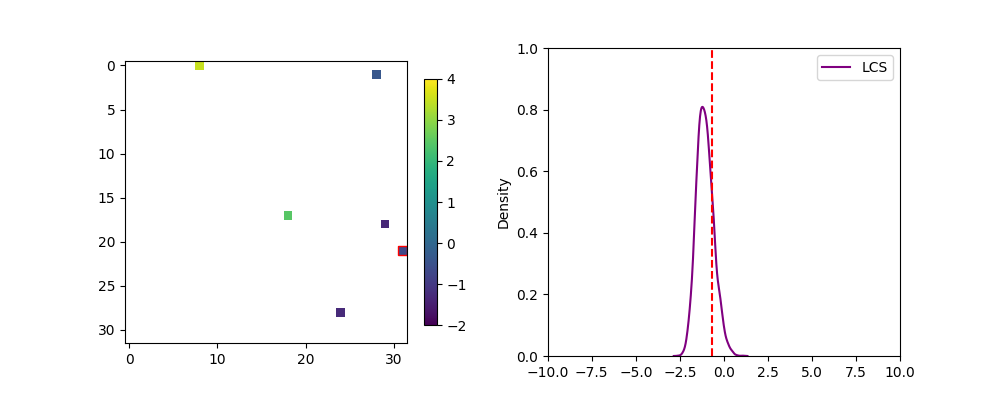
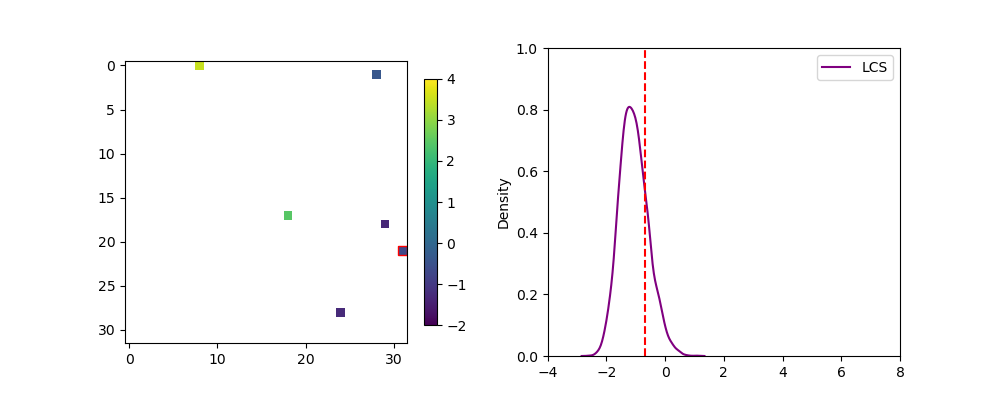
merge with local

diff --git a/brown_resnick/sde_diffusion/masked/unparameterized_masked_score/evaluation/marginal_and_bivariate_densities/produce_conditional_mcmc_marginal_and_bivariate_densities.py b/brown_resnick/sde_diffusion/masked/unparameterized_masked_score/evaluation/marginal_and_bivariate_densities/produce_conditional_mcmc_marginal_and_bivariate_densities.py
@@ -35,7 +35,7 @@ def visualize_local_conditional_simulation_marginal_density(ref_image_name, mask
         ax[0].add_patch(rect)
         pdd = pd.DataFrame(np.log(mcmc_samples), columns = None)
         sns.kdeplot(data = pdd, palette=['purple'], ax = ax[1])
-        ax[1].set_xlim(-10,10)
+        ax[1].set_xlim(-4,8)
         ax[1].set_ylim(0,1)
         ax[1].axvline(ref_image[matrix_missing_index[1],matrix_missing_index[0]], color='red', linestyle = 'dashed')
         ax[1].legend(labels = ['LCS'])
@@ -201,12 +201,12 @@ def produce_multiple_approximate_conditional_bivariate_density(folder_name, appr
 n = 32
 evaluation_folder = append_directory(2)
 data_generation_folder = (evaluation_folder + "/diffusion_generation")
-folder_name = (data_generation_folder + "/data/model4/ref_image3")
+folder_name = (data_generation_folder + "/data/model4/ref_image1")
 mask = np.load((folder_name + "/mask.npy"))
 missing_indices = np.squeeze(np.argwhere((1-mask).reshape((n**2,))))
-mcmc_file_name = (data_generation_folder + "/data/model4/ref_image3/local_conditional_simulation/univariate/local_conditional_simulation_range_2_smooth_1.6_neighbors_5_4000")
-ref_image_name = (data_generation_folder + "/data/model4/ref_image3/ref_image.npy")
-mask_name = (data_generation_folder + "/data/model4/ref_image3/mask.npy")
+mcmc_file_name = (data_generation_folder + "/data/model4/ref_image1/local_conditional_simulation/univariate/local_conditional_simulation_range_5_smooth_1.6_neighbors_5_4000")
+ref_image_name = (data_generation_folder + "/data/model4/ref_image1/ref_image.npy")
+mask_name = (data_generation_folder + "/data/model4/ref_image1/mask.npy")
 indices = [50, 100, 150, 200, 250, 300, 350, 400, 450, 500, 550, 600, 650, 700, 750, 800, 850, 900]
 figname = (folder_name + "/local_conditional_simulation/marginal_density/local_conditional_simulation_marginal_density_missing_index_")
 visualize_multiple_local_conditional_simulation_marginal_density(ref_image_name, mask_name, mcmc_file_name,
